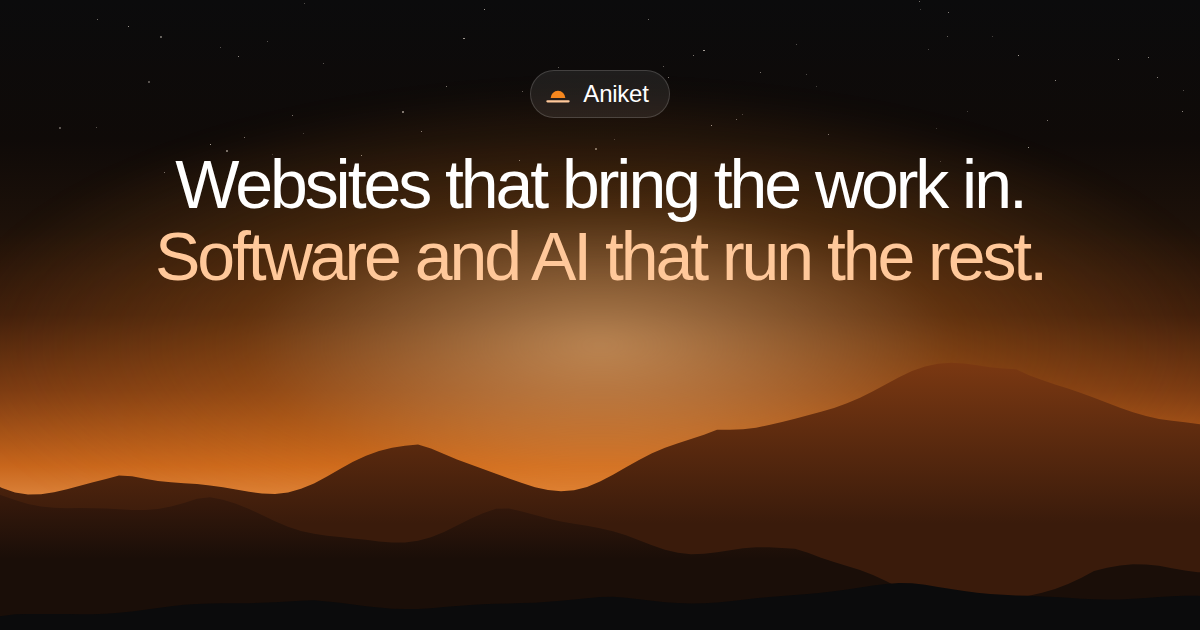
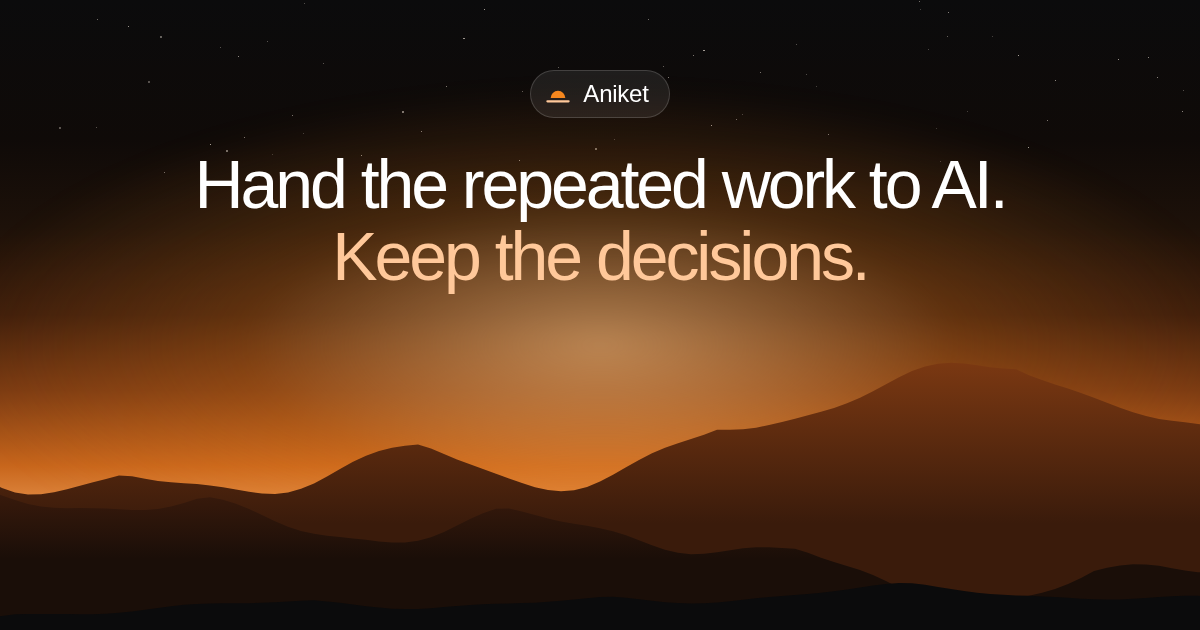
Hero: "Hand the repeated work to AI. Keep the decisions."
Aniket's pick (option C, reworded). "AI" is the serif accent word via
site.headlineAccent; share card re-rendered.

Changed region(s): [[0.1233, 0.2413, 0.8633, 0.4524], [0.4933, 0.1206, 0.5242, 0.181]]

diff --git a/src/data.js b/src/data.js
@@ -255,12 +255,13 @@ export const heroReel = {
 
 /* The home hero's two lines (site.headline). Pick pending: Aniket is
    choosing between these four, so they live side by side and the hero
-   reads whichever one site.headline points at. Option A is the default.
-   The last word of the second line is set in the serif. */
+   reads whichever one site.headline points at. Picked 2026-10-09: option C,
+   worded "Hand the repeated work to AI." with "AI" set in the serif
+   (site.headlineAccent). */
 export const heroOptions = [
   ['Your enquiries answered. Bookings confirmed. Follow-ups sent.', 'By AI, with a person checking what matters.'],
   ['AI that answers, books and follows up.', 'Websites and software that bring the work in.'],
-  ['Hand the repeat work to AI.', 'Keep the decisions.'],
+  ['Hand the repeated work to AI.', 'Keep the decisions.'],
   ['Find out what AI can take off your plate.', 'Then we build it, live by a fixed date.']
 ]
 
@@ -288,7 +289,9 @@ export const site = {
      Buyers are service businesses broadly (clinics, studios, agencies,
      consultancies, growing teams). The hero, the meta description, the
      JSON-LD and the OG card (scripts/render-og.mjs) all read from here. */
-  headline: heroOptions[0],
+  headline: heroOptions[2],
+  /* The one word of the headline set in the serif accent. */
+  headlineAccent: 'AI',
   subtitle:
     'AI, websites and custom software for service businesses: clinics, studios, agencies, consultancies and growing teams. Built as one system, live by a fixed date.',
   /* The home hero's lede: says what the headline doesn't (who it is for,

diff --git a/src/pages/home/stage/StageHero.jsx b/src/pages/home/stage/StageHero.jsx
@@ -25,11 +25,19 @@ const EASE = [0.22, 1, 0.36, 1]
    splits across two lines of a 4rem heading. */
 const [LINE_1, LINE_2] = site.headline.map((line) => line.replace(/-/g, '\u2011'))
 const LONG = site.headline.join(' ').length > 55
-/* The second line (site.headline, picked from heroOptions) closes on its
-   one serif word. */
-const LAST = LINE_2.lastIndexOf(' ')
-const LINE_2_HEAD = LINE_2.slice(0, LAST)
-const LINE_2_TAIL = LINE_2.slice(LAST + 1)
+/* One word of the headline (site.headlineAccent) is set in the serif. */
+const accent = (line) => {
+  const at = line.indexOf(site.headlineAccent)
+  if (!site.headlineAccent || at < 0) return line
+  const end = at + site.headlineAccent.length
+  return (
+    <>
+      {line.slice(0, at)}
+      <span className="stage-serif">{line.slice(at, end)}</span>
+      {line.slice(end)}
+    </>
+  )
+}
 
 const FILM = explainers.brand
 
@@ -81,10 +89,10 @@ export default function StageHero() {
 
           <h1 className={`stage-title sh-title${LONG ? ' is-long' : ''}`} id="sh-title">
             <m.span className="sh-line" {...(reduce ? {} : settle(0.1))}>
-              {LINE_1}
+              {accent(LINE_1)}
             </m.span>{' '}
             <m.span className="sh-line" {...(reduce ? {} : settle(0.25))}>
-              {LINE_2_HEAD} <span className="stage-serif">{LINE_2_TAIL}</span>
+              {accent(LINE_2)}
             </m.span>
           </h1>
 
